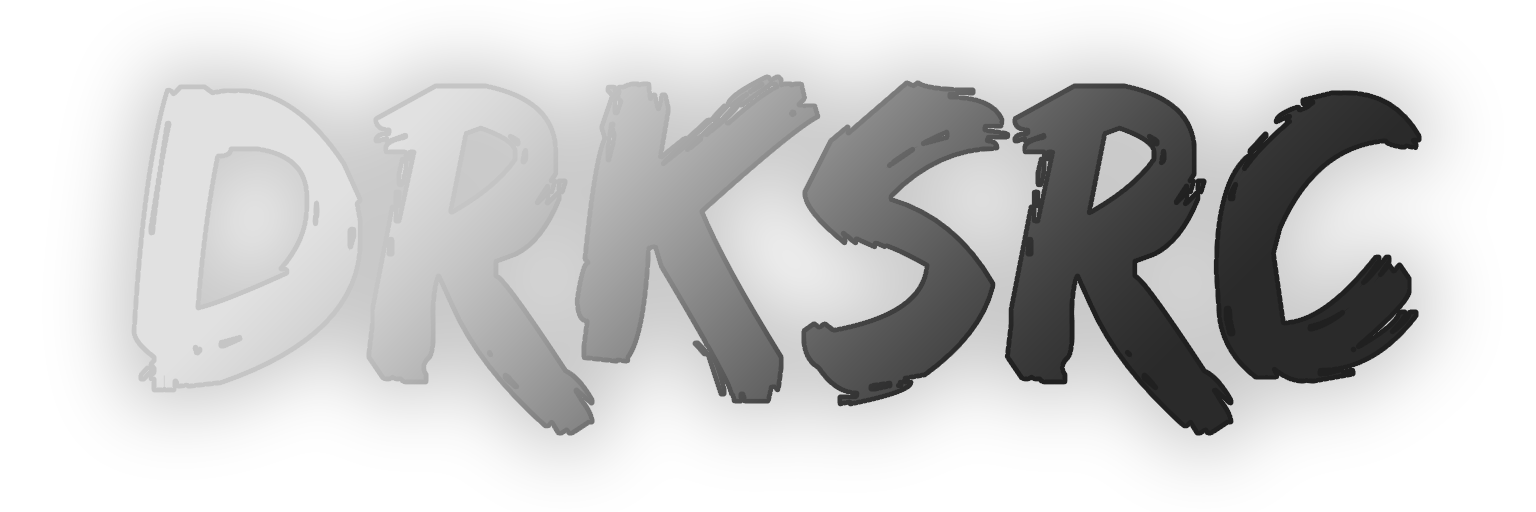
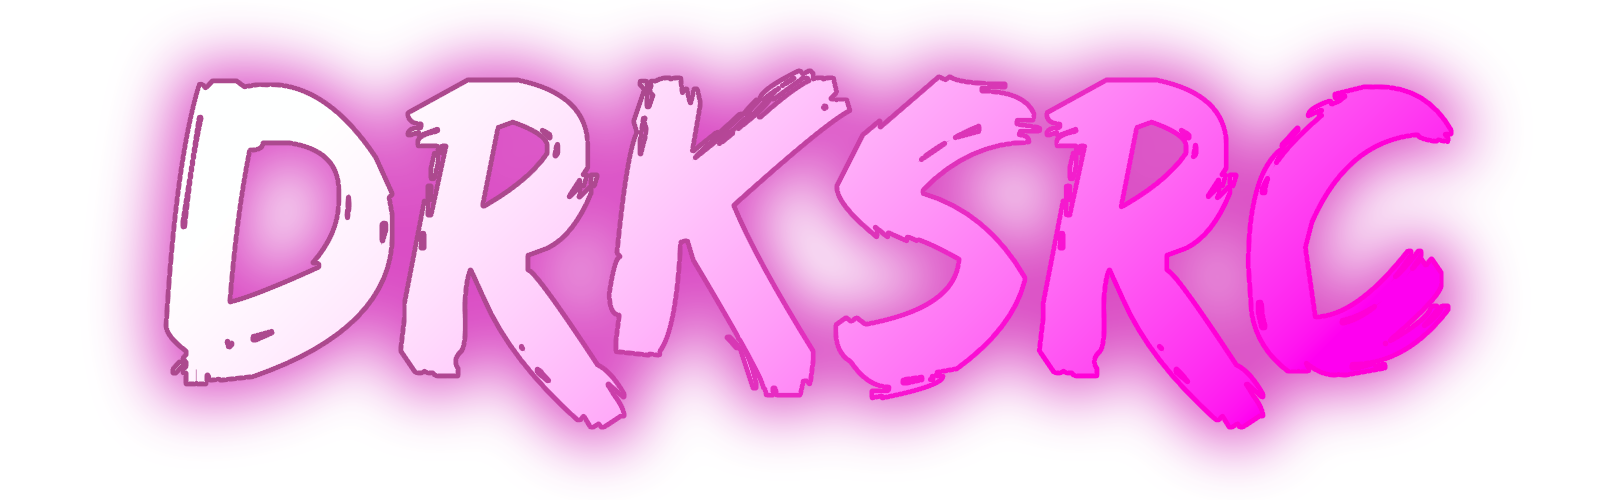
Improve Header Formatting

diff --git a/README.md b/README.md
@@ -1,5 +1,5 @@
 <h1 align="center">
-<img src="static/assets/DRKSRC (Header)(Pink).png" alt="DRKSRC" width="384">
+<img src="static/assets/DRKSRC (Header).png" alt="DRKSRC">
 </h1>
 
 <div align="center">
